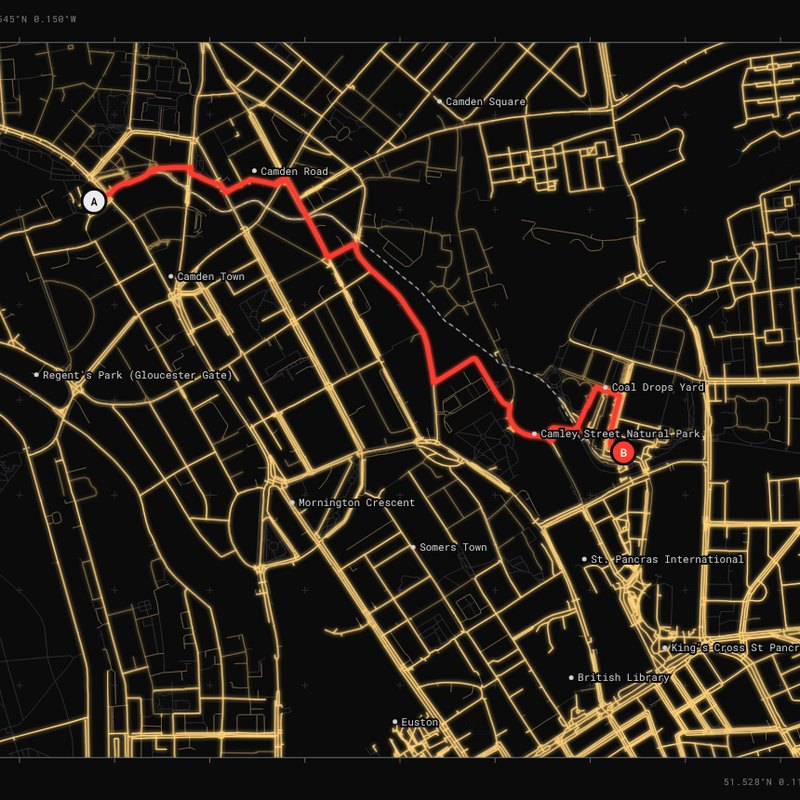
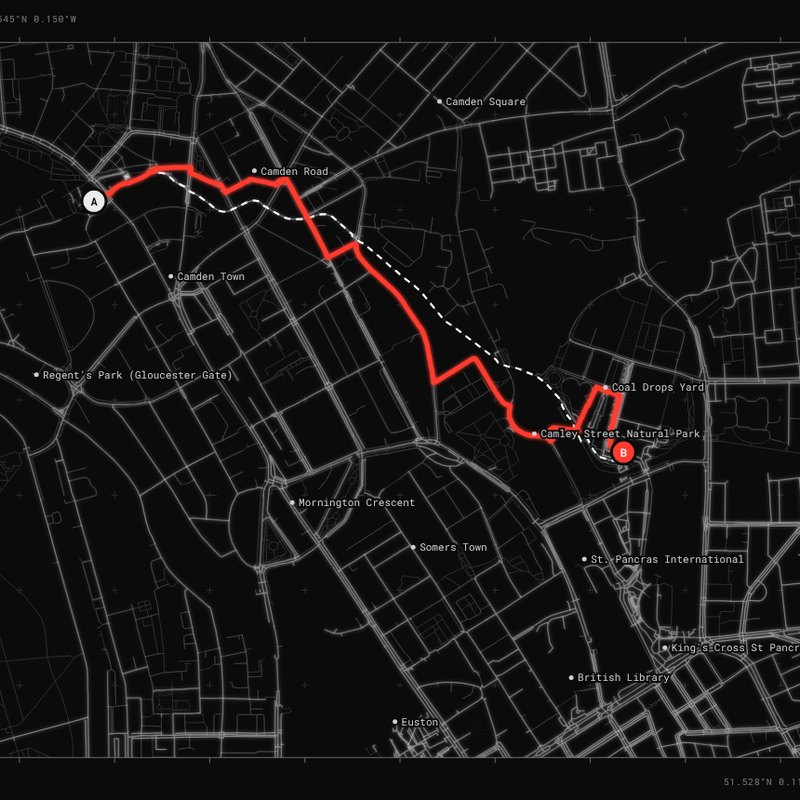
Night Walk: quiet white street lighting, distinct route colours
Claude-Session: https://claude.ai/code/session_01CpfEjaV7EbxyVQsHwU1V2x

diff --git a/nightwalk/index.html b/nightwalk/index.html
@@ -8,7 +8,7 @@
 <style>
 @font-face{font-family:"Inter Tight";font-weight:100 900;font-display:swap;src:url(../fonts/inter-tight-latin-wght-normal.woff2) format("woff2-variations")}
 @font-face{font-family:"Roboto Mono";font-weight:100 700;font-display:swap;src:url(../fonts/roboto-mono-latin-wght-normal.woff2) format("woff2-variations")}
-:root{--ink:#ECECEC;--muted:#8B8B8B;--hair:#2A2A2A;--red:#FF3B2F;--paper:#0B0B0C;--tint:#151517;--lamp:#FFD27A;color-scheme:dark;--f:"Inter Tight","Helvetica Neue",Arial,sans-serif;--m:"Roboto Mono",ui-monospace,Menlo,monospace}
+:root{--ink:#ECECEC;--muted:#8B8B8B;--hair:#2A2A2A;--red:#FF3B2F;--paper:#0B0B0C;--tint:#151517;--lamp:#ECECEC;color-scheme:dark;--f:"Inter Tight","Helvetica Neue",Arial,sans-serif;--m:"Roboto Mono",ui-monospace,Menlo,monospace}
 *{box-sizing:border-box}html,body{margin:0;height:100%}
 body{font:400 15px/1.5 var(--f);color:var(--ink);background:var(--paper);-webkit-font-smoothing:antialiased}
 .app{display:grid;grid-template-columns:420px minmax(0,1fr);height:100vh;height:100dvh}
@@ -98,8 +98,8 @@ aside{border-right-color:var(--hair)}
 section,details{border-top-color:#3a3a3a!important}
 .cmp,.cmp .c+.c{border-color:#3a3a3a}
 .lede b,.cmp .safe b{text-shadow:0 0 18px rgba(255,59,47,.35)}
-.legend .lit{border-top:3px solid var(--lamp);box-shadow:0 0 8px var(--lamp)}
-.legend .s{border-top:2px dashed #8c8c8c}
+.legend .lit{border-top:2px solid rgba(255,255,255,.45);box-shadow:0 0 6px rgba(255,255,255,.3)}
+.legend .s{border-top:2px dashed #fff}
 input[type=range]{accent-color:var(--lamp)}
 .map{background:var(--paper)}
 @keyframes on{from{opacity:0}to{opacity:1}}
@@ -151,7 +151,7 @@ input[type=range]{accent-color:var(--lamp)}
   <details id="own"><summary>Set your own priorities</summary>
     <div id="sliders"></div>
     <label class="tog"><input type="checkbox" id="stepfree"> Step-free only</label>
-    <div class="row" style="margin-top:10px"><button class="btn" id="reset" type="button">Reset</button><span class="note">Your route is drawn in black.</span></div>
+    <div class="row" style="margin-top:10px"><button class="btn" id="reset" type="button">Reset</button><span class="note">Your route is drawn in solid white.</span></div>
   </details>
   </div>
 
@@ -185,7 +185,7 @@ input[type=range]{accent-color:var(--lamp)}
   <div class="lens" id="lens"></div>
   <div class="zoom"><button type="button" id="zin" aria-label="Zoom in">+</button><button type="button" id="zout" aria-label="Zoom out">−</button></div>
   <svg id="svg" aria-label="Map of King's Cross to Camden"></svg>
-  <div class="legend"><div><span></span>Safest route</div><div><span class="lit"></span>Lit street (tagged)</div><div><span style="border-top:2px solid #C9A25A;opacity:.7"></span>Probably lit (estimated)</div><div id="lensleg" style="display:none"></div><div><span class="y"></span>Your route</div><div><span class="s"></span>Shortest route</div></div>
+  <div class="legend"><div><span></span>Safest route</div><div><span class="lit"></span>Lit street (tagged)</div><div><span style="border-top:1px solid rgba(255,255,255,.22)"></span>Probably lit (estimated)</div><div id="lensleg" style="display:none"></div><div><span class="y" style="border-top-color:#fff"></span>Your route (sliders)</div><div id="wleg" style="display:none"></div><div><span class="s"></span>Shortest route</div></div>
   <div class="hint" style="bottom:34px">Scroll to zoom · drag to move</div>
   <div class="hint" style="pointer-events:auto">© <a href="https://www.openstreetmap.org/copyright" target="_blank" rel="noopener" style="color:inherit">OpenStreetMap</a> contributors · police.uk (OGL)</div>
   <div class="tip" id="tip"></div>
@@ -196,10 +196,10 @@ input[type=range]{accent-color:var(--lamp)}
 const $=s=>document.querySelector(s);
 const CRIT=[["Lighting","Lit streets"],["People around","Open late venues, shops, stations"],["Open sightlines","No underpasses, alleys or dark park paths"],["Help nearby","Stations, pharmacies, 24/7 shops, staffed venues"],["Fewer incidents","Recorded incidents (police.uk)"]];
 const WALKERS=[
- {id:"shift",name:"Maya, night-shift nurse",need:"Finishing at 1am and tired. Wants it lit and not too long.",w:[.9,.2,.3,.1,.4],tol:.45,dash:"2 5"},
- {id:"new",name:"Sam, new to London",need:"First month here. Wants busy streets and places to ask for help.",w:[.4,.9,.5,.9,.4],tol:1.6,dash:"8 5"},
- {id:"pram",name:"Leila, pushing a pram",need:"Needs step-free pavements and open, visible routes.",w:[.5,.3,.8,.3,.3],tol:1.1,step:true,dash:"1 3"},
- {id:"alone",name:"Jo, alone after a night out",need:"Will walk further to stay around people and light.",w:[.9,.9,.9,.6,.9],tol:3.4,dash:"12 4 2 4"}
+ {id:"shift",col:"#FFD60A",name:"Maya, night-shift nurse",need:"Finishing at 1am and tired. Wants it lit and not too long.",w:[.9,.2,.3,.1,.4],tol:.45,dash:"2 5"},
+ {id:"new",col:"#BF5AF2",name:"Sam, new to London",need:"First month here. Wants busy streets and places to ask for help.",w:[.4,.9,.5,.9,.4],tol:1.6,dash:"8 5"},
+ {id:"pram",col:"#30D158",name:"Leila, pushing a pram",need:"Needs step-free pavements and open, visible routes.",w:[.5,.3,.8,.3,.3],tol:1.1,step:true,dash:"1 3"},
+ {id:"alone",col:"#64D2FF",name:"Jo, alone after a night out",need:"Will walk further to stay around people and light.",w:[.9,.9,.9,.6,.9],tol:3.4,dash:"12 4 2 4"}
 ];
 const PRESETS=[["Camden Market","Granary Square"],["King's Cross St Pancras","Camden Town"],["London Euston","Camden Town"],["St Pancras International","Camden Road"],["Granary Square","Mornington Crescent"]];
 let need=-1,mode="route",city=null,layer="avoid",fixOn=-1,OK,G,adj,A=null,B=null,clickNext="A",lens=null,focus=null,user=null,res=null;
@@ -221,7 +221,7 @@ function init(){
   A=snap(G.stations[PRESETS[0][0]]);B=snap(G.stations[PRESETS[0][1]]);
   $("#selA").onchange=()=>{A=snap(G.stations[$("#selA").value]);run()};
   $("#selB").onchange=()=>{B=snap(G.stations[$("#selB").value]);run()};
-  $("#who").innerHTML=WALKERS.map((w,i)=>`<button type="button" class="w" data-w="${i}"><b>${w.name}</b><svg width="30" height="8"><line x1="0" y1="4" x2="30" y2="4" stroke="#ECECEC" stroke-width="2" stroke-dasharray="${w.dash}"/></svg><span class="need">${w.need}${w.step?" Steps are a no.":""}</span><span class="bars">${w.w.map(v=>`<i style="--v:${v*100}%"></i>`).join("")}</span></button>`).join("");
+  $("#who").innerHTML=WALKERS.map((w,i)=>`<button type="button" class="w" data-w="${i}"><b>${w.name}</b><svg width="30" height="8"><line x1="0" y1="4" x2="30" y2="4" stroke="${w.col}" stroke-width="3"/></svg><span class="need">${w.need}${w.step?" Steps are a no.":""}</span><span class="bars">${w.w.map(v=>`<i style="--v:${v*100}%"></i>`).join("")}</span></button>`).join("");
   $("#who").onclick=e=>{const b=e.target.closest("[data-w]");if(!b)return;const i=+b.dataset.w;focus=focus===i?null:i;document.querySelectorAll(".w").forEach((x,j)=>x.classList.toggle("on",j===focus));draw()};
   $("#sliders").innerHTML=CRIT.map((c,i)=>`<div class="sl"><span title="${c[1]}">${c[0]}</span><input type="range" min="0" max="100" value="60" data-c="${i}" aria-label="${c[0]}"><output>60</output></div>`).join("")+`<div class="sl"><span>Extra walking</span><input type="range" min="0" max="100" value="45" id="tol" aria-label="How much longer you would walk"><output id="tolo">ok</output></div>`;
   $("#sliders").oninput=e=>{if(e.target.dataset.c!==undefined)e.target.nextElementSibling.textContent=e.target.value;userRoute()};
@@ -407,7 +407,7 @@ function setupMap(){
   const lit=G.E.map((e,i)=>i).filter(i=>G.E[i][3]>=.8),dim=G.E.filter(e=>e[3]>=.4&&e[3]<.8);
   const ax=G.V[A][0],ay=G.V[A][1],dmax=Math.max(...lit.map(i=>Math.hypot(G.V[G.E[i][0]][0]-ax,G.V[G.E[i][0]][1]-ay)));
   const NB=16,bins=Array.from({length:NB},()=>[]),bins2=Array.from({length:NB},()=>[]);for(const i of lit){const v=G.V[G.E[i][0]];(G.E[i][3]>=.99?bins:bins2)[Math.min(NB-1,Math.floor(Math.hypot(v[0]-ax,v[1]-ay)/dmax*NB))].push(epath(G.E[i]))}
-  const lamps=bins.map((b,k)=>`<path class="lamp" style="animation-delay:${(.25+k*.11).toFixed(2)}s" d="${b.join("")}"/>`).join("")+bins2.map((b,k)=>`<path class="lamp" stroke="#C9A25A" stroke-opacity=".55" stroke-width="1.1" style="animation-delay:${(.3+k*.11).toFixed(2)}s" d="${b.join("")}"/>`).join("");
+  const lamps=bins.map((b,k)=>`<path class="lamp" style="animation-delay:${(.25+k*.11).toFixed(2)}s" d="${b.join("")}"/>`).join("")+bins2.map((b,k)=>`<path class="lamp" stroke="#FFFFFF" stroke-opacity=".14" stroke-width="1" style="animation-delay:${(.3+k*.11).toFixed(2)}s" d="${b.join("")}"/>`).join("");
   const cross=[];for(let x=Math.ceil(FR[0]/250)*250;x<FR[0]+FR[2];x+=250)for(let y=Math.ceil(FR[1]/250)*250;y<FR[1]+FR[3];y+=250)cross.push(`M${x-9} ${y}h18M${x} ${y-9}v18`);
   const tick=[];for(let x=Math.ceil(FR[0]/250)*250;x<FR[0]+FR[2];x+=250)tick.push(`M${x} ${FR[1]}v-14M${x} ${FR[1]+FR[3]}v14`);for(let y=Math.ceil(FR[1]/250)*250;y<FR[1]+FR[3];y+=250)tick.push(`M${FR[0]} ${y}h-14M${FR[0]+FR[2]} ${y}h14`);
   svg.innerHTML=`<defs><pattern id="dots" width="9" height="9" patternUnits="userSpaceOnUse"><circle cx="4.5" cy="4.5" r="1.2" fill="#262628"/></pattern>
@@ -415,8 +415,8 @@ function setupMap(){
     <filter id="glow" x="-20%" y="-20%" width="140%" height="140%"><feGaussianBlur stdDeviation="5" result="b"/><feMerge><feMergeNode in="b"/><feMergeNode in="SourceGraphic"/></feMerge></filter></defs>
   <path d="${cross.join("")}" stroke="#2c2c2e" stroke-width="1" vector-effect="non-scaling-stroke" fill="none"/>
   <g clip-path="url(#clip)"><path d="${pk}" fill="url(#dots)" stroke="none"/><path d="${ed}" fill="none" stroke="#2e2e31" stroke-width="1" vector-effect="non-scaling-stroke" stroke-linecap="round" stroke-linejoin="round"/>
-  <path d="${dim.map(epath).join("")}" fill="none" stroke="#6b5a36" stroke-width="1" vector-effect="non-scaling-stroke"/>
-  <g id="lit" fill="none" stroke="#FFD27A" stroke-width="1.5" stroke-linecap="round" stroke-linejoin="round" filter="url(#glow)" style="vector-effect:non-scaling-stroke">${lamps}</g></g>
+  <path d="${dim.map(epath).join("")}" fill="none" stroke="#3a3a3d" stroke-width="1" vector-effect="non-scaling-stroke"/>
+  <g id="lit" fill="none" stroke="#FFFFFF" stroke-opacity=".34" stroke-width="1.3" stroke-linecap="round" stroke-linejoin="round" filter="url(#glow)" style="vector-effect:non-scaling-stroke">${lamps}</g></g>
   <rect x="${FR[0]}" y="${FR[1]}" width="${FR[2]}" height="${FR[3]}" fill="none" stroke="#6a6a6e" stroke-width="1" vector-effect="non-scaling-stroke"/>
   <path d="${tick.join("")}" stroke="#6a6a6e" stroke-width="1" vector-effect="non-scaling-stroke"/>
   <g id="lensg"></g><g id="cityg"></g><g id="routes"></g><g id="marks"></g><g id="meg"></g>`;
@@ -447,10 +447,10 @@ function draw(){
   $("#lit").style.opacity=mode==="city"?.25:1;
   if(mode==="city"){g.innerHTML="";$("#marks").innerHTML="";document.querySelector(".legend").style.visibility="hidden";return}
   document.querySelector(".legend").style.visibility="";
-  const showW=$("#neg").open||focus!==null;
-  if(res.shortest)h+=`<path d="${pathOf(res.shortest)}" fill="none" stroke="#9a9a9e" stroke-width="1.6" stroke-dasharray="5 4" vector-effect="non-scaling-stroke"/>`;
-  res.own.forEach((r,i)=>{if(r&&showW)h+=`<path d="${pathOf(r)}" fill="none" stroke="#ECECEC" stroke-opacity="${focus===null?.45:focus===i?1:.12}" stroke-width="${focus===i?2.5:1.6}" stroke-dasharray="${WALKERS[i].dash}" vector-effect="non-scaling-stroke"/>`});
-  if(user)h+=`<path d="${pathOf(user)}" fill="none" stroke="#fff" stroke-width="3" vector-effect="non-scaling-stroke"/>`;
+  const showW=$("#neg").open||focus!==null;$("#wleg").style.display=showW?"block":"none";$("#wleg").innerHTML=WALKERS.map(w=>`<div><span style="border-top:3px solid ${w.col}"></span>${w.name.split(",")[0]}</div>`).join("");
+  if(res.shortest)h+=`<path d="${pathOf(res.shortest)}" fill="none" stroke="#FFFFFF" stroke-width="2.2" stroke-dasharray="7 6" vector-effect="non-scaling-stroke"/>`;
+  res.own.forEach((r,i)=>{if(r&&showW)h+=`<path d="${pathOf(r)}" fill="none" stroke="${WALKERS[i].col}" stroke-opacity="${focus===null?.9:focus===i?1:.15}" stroke-width="${focus===i?3.5:2.2}" vector-effect="non-scaling-stroke"/>`});
+  if(user)h+=`<path d="${pathOf(user)}" fill="none" stroke="#FFFFFF" stroke-width="3.5" vector-effect="non-scaling-stroke"/>`;
   if(mainR())h+=`<path d="${pathOf(mainR())}" fill="none" stroke="#FF3B2F" filter="url(#glow)" stroke-width="${focus===null?5:3}" stroke-opacity="${focus===null?1:.6}" stroke-linecap="round" stroke-linejoin="round" vector-effect="non-scaling-stroke"/>`;
   g.innerHTML=h;
   drawMarks();
